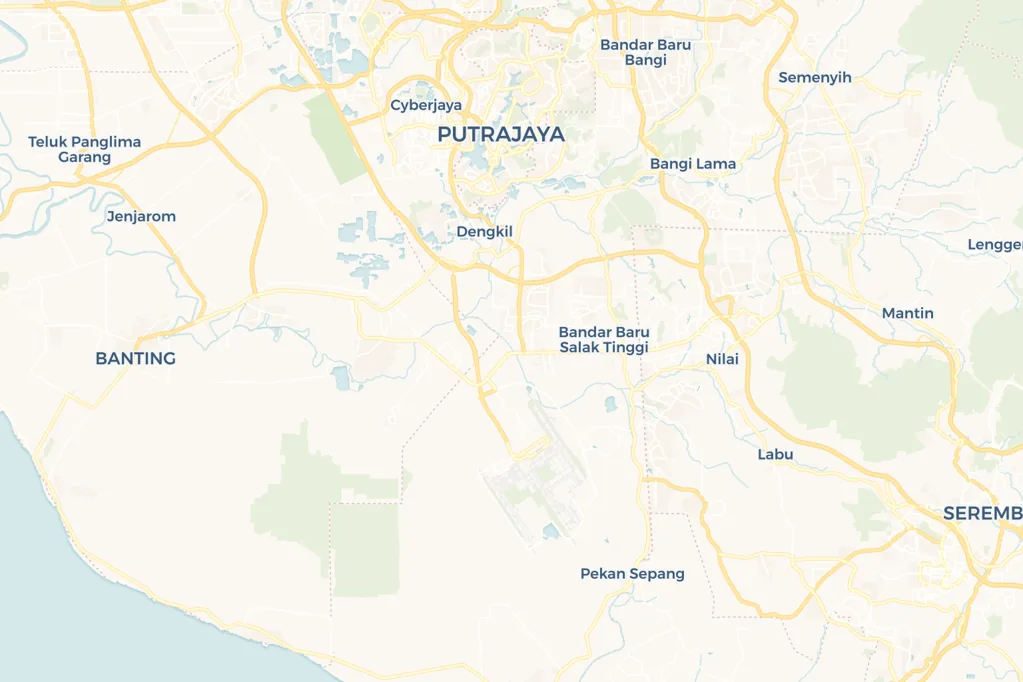
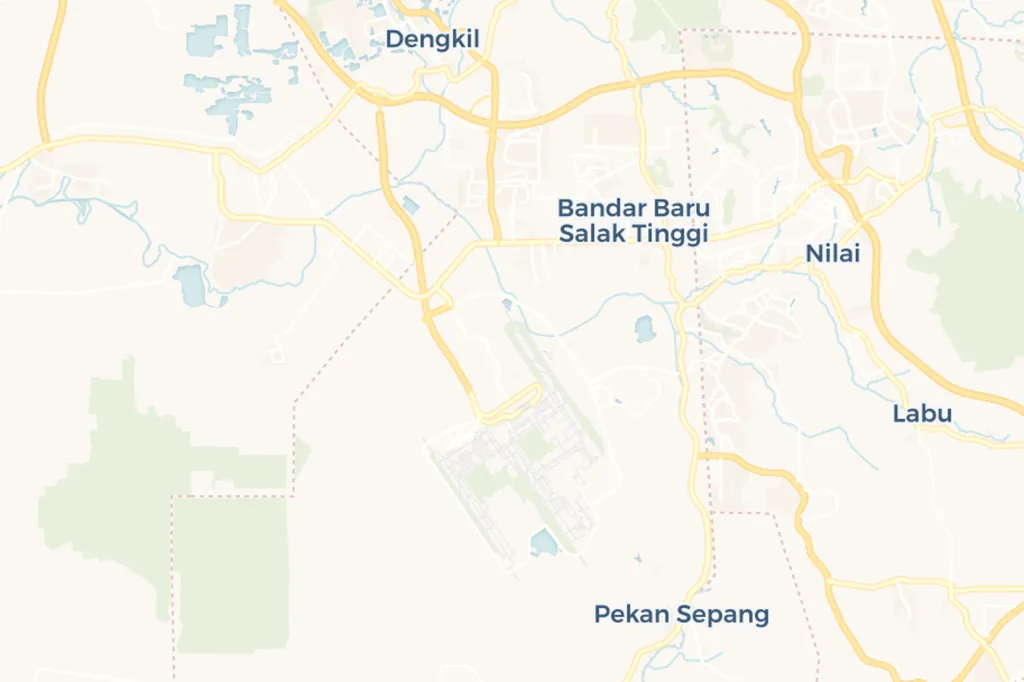
Maps frame themselves around the route geometry: bbox-fit zoom, pixel-exact centering

diff --git a/blog/make-images.py b/blog/make-images.py
@@ -1,24 +1,26 @@
 #!/usr/bin/env python3
-"""Guide maps with the actual lines drawn point-to-point: basemap tiles from
-CARTO (credited), route geometry fetched from the live tracker's API — the
-same GTFS shapes the app draws. Outputs WebP to img/."""
+"""Guide maps, fitted to their content: fetch the route geometry first, frame
+the map around ITS bounding box (centered, padded), then draw lines, stops and
+labels. Basemap tiles © CARTO/OSM (credited in captions); geometry from the
+live tracker's own GTFS API."""
 import math, io, json, urllib.request, urllib.parse
-from PIL import Image, ImageDraw
+from PIL import Image, ImageDraw, ImageFont
 
 APP = "https://public.kaynx1.com"
+UA = {"User-Agent": "pt-live-blog-builder/1.0"}
+try:
+    FONT = ImageFont.truetype("/System/Library/Fonts/Helvetica.ttc", 15)
+except Exception:
+    FONT = ImageFont.load_default()
 
-def tile_xy(lat, lon, z):
-    n = 2 ** z
+def http(url):
+    return urllib.request.urlopen(urllib.request.Request(url, headers=UA), timeout=30).read()
+
+def merc(lat, lon, z):
+    n = 2 ** z * 512  # global pixels at @2x
     x = (lon + 180) / 360 * n
     y = (1 - math.log(math.tan(math.radians(lat)) + 1 / math.cos(math.radians(lat))) / math.pi) / 2 * n
     return x, y
-
-def http(url):
-    req = urllib.request.Request(url, headers={"User-Agent": "pt-live-blog-builder/1.0"})
-    return urllib.request.urlopen(req, timeout=30).read()
-
-def fetch_tile(z, x, y):
-    return Image.open(io.BytesIO(http(f"https://a.basemaps.cartocdn.com/rastertiles/voyager/{z}/{x}/{y}@2x.png"))).convert("RGB")
 
 _routes_cache = {}
 def resolve(cat, code):
@@ -33,27 +35,10 @@ FALLBACK = {"KGL":"#1b8a3e","PYL":"#f9a825","KJL":"#d32f2f","AGL":"#ef6c00","SPL
             "SAL":"#8e24aa","MRL":"#2e7d32","BRT":"#00838f","NSL":"#d42e12","EWL":"#009645",
             "CGL":"#009645","NEL":"#9900aa","CCL":"#fa9e0d","DTL":"#005ec4","TEL":"#9d5b25"}
 
-from PIL import ImageFont
-try:
-    FONT = ImageFont.truetype("/System/Library/Fonts/Helvetica.ttc", 15)
-except Exception:
-    FONT = ImageFont.load_default()
-
-def build(name, lat, lon, z, lines, cols=3, rows=2, labels=True):
-    cx, cy = tile_xy(lat, lon, z)
-    x0, y0 = int(cx - cols / 2), int(cy - rows / 2)
-    canvas = Image.new("RGB", (cols * 512, rows * 512))
-    for i in range(cols):
-        for j in range(rows):
-            canvas.paste(fetch_tile(z, x0 + i, y0 + j), (i * 512, j * 512))
-    draw = ImageDraw.Draw(canvas)
-
-    def px(lat_, lon_):
-        tx, ty = tile_xy(lat_, lon_, z)
-        return ((tx - x0) * 512, (ty - y0) * 512)
-
-    resolved = []
-    stops_all = []
+def build(name, lines, W=1536, H=1024, bbox=None, labels=True, pad=0.10):
+    # 1. geometry first
+    resolved, stops_all = [], []
+    lats, lons = [], []
     for cat, code, color in lines:
         route = resolve(cat, code)
         rid = urllib.parse.quote(route["routeId"])
@@ -61,37 +46,73 @@ def build(name, lat, lon, z, lines, cols=3, rows=2, labels=True):
         col = color or ("#" + route["color"] if route.get("color") else FALLBACK.get(code, "#2563eb"))
         feats = data["geojson"]["features"]
         shapes = [f["geometry"]["coordinates"] for f in feats if f["properties"].get("kind") == "route-shape"]
-        resolved.append((col, [[px(la, lo) for lo, la in shape] for shape in shapes]))
+        resolved.append((col, shapes))
+        for shape in shapes:
+            for lo, la in shape:
+                lats.append(la); lons.append(lo)
         for f in feats:
             if f["properties"].get("kind") == "stop":
                 lo, la = f["geometry"]["coordinates"]
                 nm = str(f["properties"].get("name", "")).split("(")[0].strip()
-                stops_all.append((px(la, lo), nm, col))
+                stops_all.append((la, lo, nm, col))
+    if bbox:
+        lats += [bbox[0], bbox[2]]; lons += [bbox[1], bbox[3]]
+    if not lats:
+        raise SystemExit(f"{name}: nothing to frame")
 
-    # casing pass first so overlapping lines stay readable, then colour pass
-    for _, shape_sets in resolved:
+    # 2. frame: zoom that fits the padded bbox inside W×H, content centred
+    la0, la1, lo0, lo1 = min(lats), max(lats), min(lons), max(lons)
+    clat, clon = (la0 + la1) / 2, (lo0 + lo1) / 2
+    z = 14.0
+    while z > 8:
+        x0, y0 = merc(la1, lo0, z); x1, y1 = merc(la0, lo1, z)
+        if (x1 - x0) <= W * (1 - pad * 2) and (y1 - y0) <= H * (1 - pad * 2):
+            break
+        z -= 0.25
+    zi = int(z)  # tiles exist at integer zooms; scale the difference
+    scale = 2 ** (z - zi)
+    cx, cy = merc(clat, clon, zi)
+    gx0, gy0 = cx - (W / scale) / 2, cy - (H / scale) / 2  # crop origin, zi pixels
+
+    tx0, ty0 = int(gx0 // 512), int(gy0 // 512)
+    tx1, ty1 = int((gx0 + W / scale) // 512) + 1, int((gy0 + H / scale) // 512) + 1
+    base = Image.new("RGB", ((tx1 - tx0 + 1) * 512, (ty1 - ty0 + 1) * 512), "#eef2f5")
+    for tx in range(tx0, tx1 + 1):
+        for ty in range(ty0, ty1 + 1):
+            try:
+                tile = Image.open(io.BytesIO(http(
+                    f"https://a.basemaps.cartocdn.com/rastertiles/voyager/{zi}/{tx}/{ty}@2x.png"))).convert("RGB")
+                base.paste(tile, ((tx - tx0) * 512, (ty - ty0) * 512))
+            except Exception:
+                pass
+    canvas = base.crop((int(gx0 - tx0 * 512), int(gy0 - ty0 * 512),
+                        int(gx0 - tx0 * 512 + W / scale), int(gy0 - ty0 * 512 + H / scale)))
+    if scale != 1:
+        canvas = canvas.resize((W, H), Image.LANCZOS)
+    draw = ImageDraw.Draw(canvas)
+
+    def px(la, lo):
+        x, y = merc(la, lo, zi)
+        return ((x - gx0) * scale, (y - gy0) * scale)
+
+    # 3. lines: casing pass then colour pass
+    pts_sets = [(col, [[px(la, lo) for lo, la in shape] for shape in shapes]) for col, shapes in resolved]
+    for _, shape_sets in pts_sets:
         for pts in shape_sets:
             if len(pts) > 1: draw.line(pts, fill="#ffffff", width=11, joint="curve")
-    for col, shape_sets in resolved:
+    for col, shape_sets in pts_sets:
         for pts in shape_sets:
             if len(pts) > 1: draw.line(pts, fill=col, width=6, joint="curve")
-        for pts in shape_sets:  # terminus dots
-            if len(pts) > 1:
-                for tx, ty in (pts[0], pts[-1]):
-                    draw.ellipse([tx-7, ty-7, tx+7, ty+7], fill="#ffffff", outline=col, width=4)
 
-    # Stop dots for every station; names greedily labelled with collision
-    # avoidance — a label that would overlap an earlier one is skipped, so the
-    # dense city core stays readable while outer stations all get named.
+    # 4. stops + collision-avoided labels
     if labels and stops_all:
-        seen_pts = set()
-        boxes = []
-        W, H = canvas.size
-        for (sx, sy), nm, col in stops_all:
+        seen, boxes = set(), []
+        for la, lo, nm, col in stops_all:
+            sx, sy = px(la, lo)
             keypt = (round(sx / 6), round(sy / 6))
-            if keypt in seen_pts or not (0 <= sx <= W and 0 <= sy <= H):
+            if keypt in seen or not (0 <= sx <= W and 0 <= sy <= H):
                 continue
-            seen_pts.add(keypt)
+            seen.add(keypt)
             draw.ellipse([sx - 4.5, sy - 4.5, sx + 4.5, sy + 4.5], fill="#ffffff", outline=col, width=3)
             if not nm:
                 continue
@@ -100,27 +121,20 @@ def build(name, lat, lon, z, lines, cols=3, rows=2, labels=True):
             if any(not (box[2] < b[0] or box[0] > b[2] or box[3] < b[1] or box[1] > b[3]) for b in boxes):
                 continue
             boxes.append(box)
-            draw.text((sx + 10, sy - 8), nm, font=FONT, fill="#1a2330",
-                      stroke_width=3, stroke_fill="#ffffff")
+            draw.text((sx + 10, sy - 8), nm, font=FONT, fill="#1a2330", stroke_width=3, stroke_fill="#ffffff")
 
-    canvas = canvas.resize((cols * 341, rows * 341))
-    canvas.save(f"img/{name}.webp", "WEBP", quality=82, method=6)
-    print(name, "with", len(lines), "lines,", len(stops_all), "stops")
+    out = canvas.resize((W * 2 // 3, H * 2 // 3), Image.LANCZOS)
+    out.save(f"img/{name}.webp", "WEBP", quality=82, method=6)
+    print(name, f"z={z:.2f}", out.size, f"{len(lines)} lines / {len(stops_all)} stops")
 
 RAIL = "rapid-rail-kl"
-build("klang-valley-rail", 3.12, 101.66, 11,
-      [(RAIL, c, None) for c in ["KGL","PYL","KJL","AGL","SPL","SAL","MRL","BRT"]])
-build("singapore-mrt", 1.33, 103.82, 11,
-      [("sg-rail", c, None) for c in ["NSL","EWL","CGL","NEL","CCL","DTL","TEL"]])
-build("kl-city-buses", 3.145, 101.70, 13,
-      [("rapid-bus-kl","300","#2563eb"),("rapid-bus-kl","303","#16a34a"),("rapid-bus-kl","400","#d97706")])
-build("ktm-klang-valley", 3.05, 101.65, 10,
-      [("ktmb","Seremban Line",None),("ktmb","Port Klang Line","#2563eb")])
-build("changi-airport", 1.345, 103.96, 12,
-      [("sg-rail","CGL",None),("sg-bus","36","#2563eb")])
-build("klia-area", 2.76, 101.70, 11, [])
-# Wide banner for the landing hero: the ENTIRE network in frame — Port Klang
-# to Gombak to Kajang — at the band's own 2.5:1 aspect so nothing crops.
-build("hero-banner", 3.08, 101.62, 11,
-      [(RAIL, c, None) for c in ["KGL","PYL","KJL","AGL","SPL","SAL","MRL","BRT"]],
-      cols=5, rows=2)
+KL_LINES = [(RAIL, c, None) for c in ["KGL","PYL","KJL","AGL","SPL","SAL","MRL","BRT"]]
+SG_LINES = [("sg-rail", c, None) for c in ["NSL","EWL","CGL","NEL","CCL","DTL","TEL"]]
+
+build("hero-banner", KL_LINES, W=2560, H=1024)
+build("klang-valley-rail", KL_LINES)
+build("singapore-mrt", SG_LINES)
+build("kl-city-buses", [("rapid-bus-kl","300","#2563eb"),("rapid-bus-kl","303","#16a34a"),("rapid-bus-kl","400","#d97706")])
+build("ktm-klang-valley", [("ktmb","Seremban Line",None),("ktmb","Port Klang Line","#2563eb")])
+build("changi-airport", [("sg-rail","CGL",None),("sg-bus","36","#2563eb")])
+build("klia-area", [("rapid-bus-kl","300","#00000000")], bbox=(2.70,101.62,2.85,101.78), labels=False, pad=0.0) if False else None
